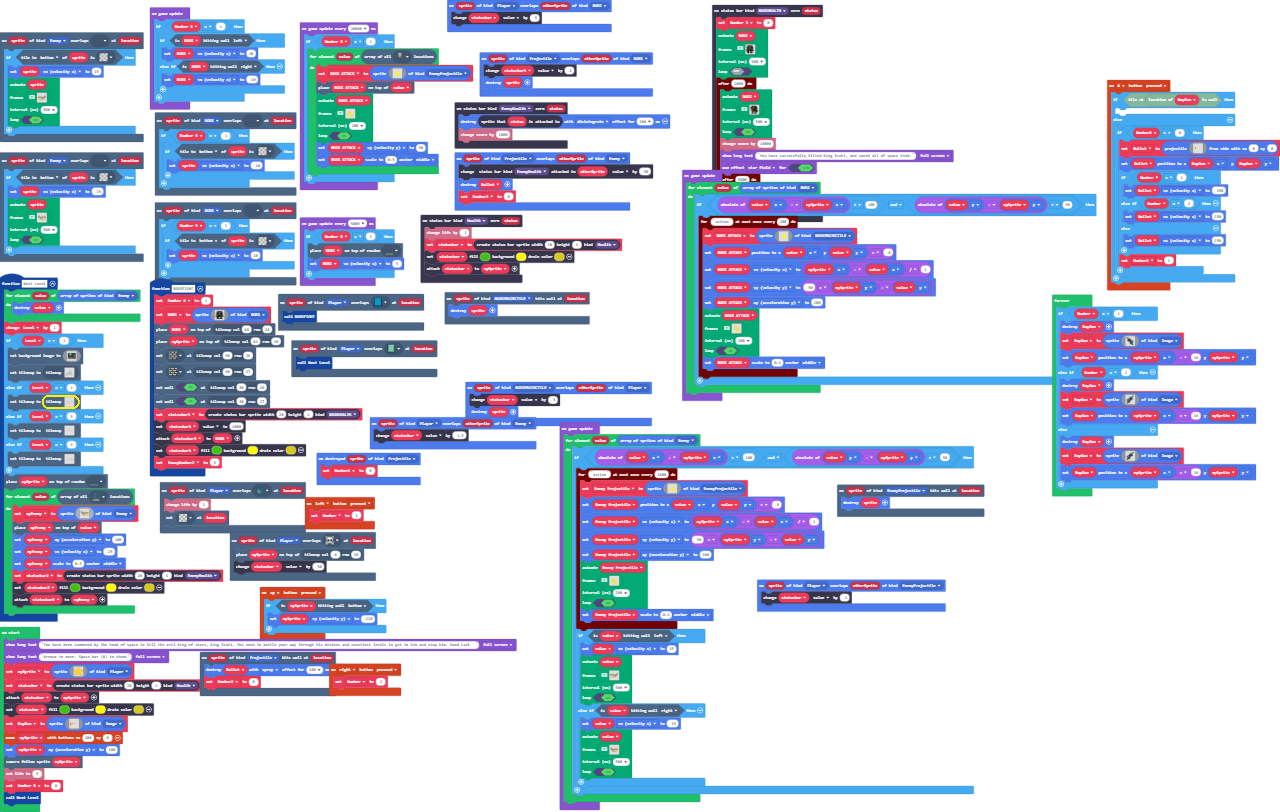
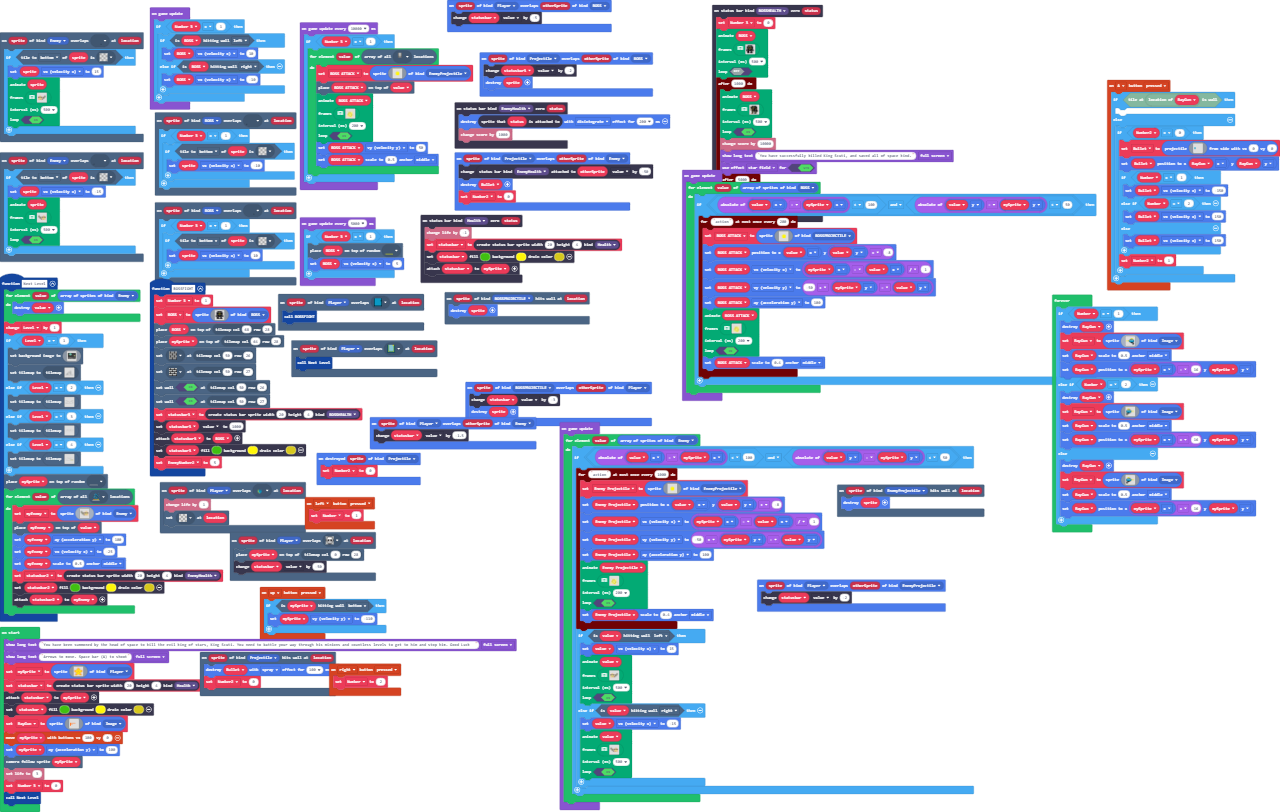
Update pxt.json, main.blocks, main.ts, tilemap.g.jres, tilemap.g.ts, images.g.jres, images.g.ts

Changed region(s): [[0.8125, 0.4002, 1.0, 0.6773]]

diff --git a/tilemap.g.ts b/tilemap.g.ts
@@ -187,49 +187,6 @@ namespace myTiles {
 ........2....................................2....2.............................
 222222222....................................22222222222222222222222222222222222
 `, [myTiles.transparency16,myTiles.tile1,myTiles.tile5,myTiles.tile6,myTiles.tile7,myTiles.tile9,myTiles.tile10,myTiles.tile15,myTiles.tile16,myTiles.tile18,myTiles.tile19,myTiles.tile8,myTiles.tile4,myTiles.tile20], TileScale.Sixteen);
-            case "level7":
[1 lines of base64/hex data omitted]
-................................................22........................2............................2....................................
-................................................22........................2............................2....................................
-................................................22........................2............................2....................................
-................................................22........................2............................2....................................
-...............................................222........................2....2.......22.2222222222...2....................................
-..............................................2222............................22..........2........2...2....................................
-.............................................22222...........................22...........2........2...2....................................
-............................................222222........................2222............2........2...2.................................2..
-..........................................22222222.......................22...............2........2...2.................................2..
-.............................................2.................222222222222...............2........2...2........................22......2222
-.............................................2............................................2........2...2.......................22...........
-.............................................2............................................2............2......................22............
-.....................2..2222..............2..2...............2.2.2.2.2.2.2.2..............2............2.....................22.............
-....................22.......................2............................................2............2....................22..............
-...................222.......................2............................................2........2...2...................2................
-...............22..222.......................2..................................2.........2........2...2................2...................
-..........................................2..2............................................2......2.2...2....................................
-.............................................2.......................................2....2........2...2....................................
-..........22.................................2............................................2........22222....................................
-.............................................2............................................2.................................................
-..................................222222222222.......................................2....2.................................................
-..........................................................................................22222...............................2222..........
-......2....................2222...........................................................2.................................................
-.....................................................................................2....2.................................................
-..........................................................................................2...............................2.................
-..........2...............................................................................2.................................................
-.....................................................................................2....2.................................................
-..........................................................................................2.....2....................2......................
-.............2............................................................................2.................................................
-.....................................................................................2....2.................................................
-..........................................................................................2..........................2......................
-...............2..........................................................................2.................................................
-.................................................................2...................2....2.................................................
-............2.............................................................................2..........................2......................
-..........................................................................................2.................................................
-...........2..............................................22.........................2....2.............2...................................
-..........................................................................................2..........................2......................
-.........2................................................................................2.................................................
-..........................................................................22..2...2.......2.................................................
-222222.......................22222..............2222......................................2..................2222....2......................
-`, [myTiles.transparency16,myTiles.tile1,myTiles.tile2,myTiles.tile3,myTiles.tile5,myTiles.tile6,myTiles.tile7,myTiles.tile9,myTiles.tile10,myTiles.tile11,myTiles.tile12,myTiles.tile13,myTiles.tile14,myTiles.tile8,myTiles.tile18,myTiles.tile4], TileScale.Sixteen);
             case "level0":
[1 lines of base64/hex data omitted]
 ......2.........................................................................
@@ -263,6 +220,49 @@ namespace myTiles {
 ............................................2222222.............................
 2222............22222.......2222.......22222222222222.....................222222
 `, [myTiles.transparency16,myTiles.tile1,myTiles.tile2,myTiles.tile3,myTiles.tile5,myTiles.tile6,myTiles.tile7,myTiles.tile9,myTiles.tile10,myTiles.tile11,myTiles.tile12,myTiles.tile13,myTiles.tile14,myTiles.tile4,myTiles.tile8,myTiles.tile18], TileScale.Sixteen);
+            case "level7":
[1 lines of base64/hex data omitted]
+................................................22........................2............................2....................................
+................................................22........................2............................2....................................
+................................................22........................2............................2....................................
+................................................22........................2............................2....................................
+...............................................222........................2....2.......22.2222222222...2....................................
+..............................................2222............................22..........2........2...2....................................
+.............................................22222...........................22...........2........2...2....................................
+............................................222222........................2222............2........2...2.................................2..
+..........................................22222222.......................22...............2........2...2.................................2..
+.............................................2.................222222222222...............2........2...2........................22......2222
+.............................................2............................................2........2...2.......................22...........
+.............................................2............................................2............2......................22............
+.....................2..2222..............2..2...............2.2.2.2.2.2.2.2..............2............2.....................22.............
+....................22.......................2............................................2............2....................22..............
+...................222.......................2............................................2........2...2...................2................
+...............22..222.......................2..................................2.........2........2..22................2...................
+..........................................2..2............................................2......2.2...2....................................
+.............................................2.......................................2....2........2...2....................................
+..........22.................................2............................................2........22222....................................
+.............................................2............................................2.................................................
+........2.........................222222222222.......................................2....2.................................................
+..........................................................................................22222...............................2222..........
+......2....................2222...........................................................2.................................................
+.....................................................................................2....2.................................................
+..........................................................................................2...............................2.................
+..........2...............................................................................2.................................................
+.....................................................................................2....2.................................................
+..........................................................................................2.....2....................2......................
+.............2............................................................................2.................................................
+.....................................................................................2....2.................................................
+..........................................................................................2..........................2......................
+...............2..........................................................................2.................................................
+.................................................................2...................2....2.................................................
+.............2............................................................................2..........................2......................
+..........................................................................................2.................................................
+...........2..............................................22.........................2....2.............2...................................
+..........................................................................................2..........................2......................
+.........2............................................2...................................2.................................................
+..........................................................................22..2...2.......2.................................................
+222222.......................22222..............2222......................................2..................2222....2......................
+`, [myTiles.transparency16,myTiles.tile1,myTiles.tile2,myTiles.tile3,myTiles.tile5,myTiles.tile6,myTiles.tile7,myTiles.tile9,myTiles.tile10,myTiles.tile11,myTiles.tile12,myTiles.tile13,myTiles.tile14,myTiles.tile8,myTiles.tile18,myTiles.tile4], TileScale.Sixteen);
         }
         return null;
     })

diff --git a/images.g.ts b/images.g.ts
@@ -360,6 +360,72 @@ d a 6 1 6 6 a a a a 6 1 6 6 a d
 ......................69996..
 .......................666...
 `;
+            case "image12":
+            case "Ray Gun0":return img`
+................................
+................................
+................................
+.......................beecca...
+.....................beeccc.....
+...................beeccca......
+.................beecccca.......
+................beeccccaaa......
+................66666666666.....
+..............663333333333366...
+.............63333333333333336..
+.........c..6333333333333333336.
+..a....c.c.632323232323232323236
+.acc.a.c.c.623232323232323232326
+accceaecece622222222222222222226
+.ccc.a.c.c.622222222222222222226
+..c....c.c.622222222222222222226
+.........c..6222222222222222226.
+.............62424242424242426..
+..............664444444444446...
+................6664444444456...
+...................66665555876..
+....................55668888876.
+....................56..68888876
+....................6....6888886
+.........................6888886
+..........................688856
+..........................68856.
+..........................6556..
+...........................66...
+`;
+            case "image11":
+            case "Ray Gun":return img`
+................................
+................................
+................................
+...acceeb.......................
+.....ccceeb.....................
+......accceeb...................
+.......acccceeb.................
+......aaacccceeb................
+.....66666666666................
+...663333333333366..............
+..63333333333333336.............
+.6333333333333333336..c.........
+632323232323232323236.c.c....a..
+623232323232323232326.c.c.a.cca.
+622222222222222222226ececeaeccca
+622222222222222222226.c.c.a.ccc.
+622222222222222222226.c.c....c..
+.6222222222222222226..c.........
+..62424242424242426.............
+...644444444444466..............
+...6544444444666................
+..67855556666...................
+.67888886655....................
+67888886..65....................
+6888886....6....................
+6888886.........................
+658886..........................
+.65886..........................
+..6556..........................
+...66...........................
+`;
         }
         return null;
     })

diff --git a/main.ts b/main.ts
@@ -44,10 +44,10 @@ controller.A.onEvent(ControllerButtonEvent.Pressed, function () {
                 . . . . . . . . . . . . . . . . 
                 . . . . . . . . . . . . . . . . 
                 . . . . . . . . . . . . . . . . 
-                c . . . . . . . . . . . . . . . 
-                c c 6 . . . . . . . . . . . . . 
-                c c 6 . . . . . . . . . . . . . 
-                c . . . . . . . . . . . . . . . 
+                . . . . . . . . . . . . . . . . 
+                2 2 2 2 . . . . . . . . . . . . 
+                2 2 2 2 . . . . . . . . . . . . 
+                . . . . . . . . . . . . . . . . 
                 . . . . . . . . . . . . . . . . 
                 . . . . . . . . . . . . . . . . 
                 . . . . . . . . . . . . . . . . 
@@ -564,15 +564,18 @@ game.onUpdateInterval(5000, function () {
 forever(function () {
     if (Number3 == 1) {
         sprites.destroy(RayGun)
-        RayGun = sprites.create(assets.image`Gun0`, SpriteKind.Image)
+        RayGun = sprites.create(assets.image`Ray Gun0`, SpriteKind.Image)
+        RayGun.setScale(0.5, ScaleAnchor.Middle)
         RayGun.setPosition(mySprite.x - 16, mySprite.y)
     } else if (Number3 == 2) {
         sprites.destroy(RayGun)
-        RayGun = sprites.create(assets.image`Gun`, SpriteKind.Image)
+        RayGun = sprites.create(assets.image`Ray Gun`, SpriteKind.Image)
+        RayGun.setScale(0.5, ScaleAnchor.Middle)
         RayGun.setPosition(mySprite.x + 16, mySprite.y)
     } else {
         sprites.destroy(RayGun)
-        RayGun = sprites.create(assets.image`Gun`, SpriteKind.Image)
+        RayGun = sprites.create(assets.image`Ray Gun`, SpriteKind.Image)
+        RayGun.setScale(0.5, ScaleAnchor.Middle)
         RayGun.setPosition(mySprite.x + 16, mySprite.y)
     }
 })
